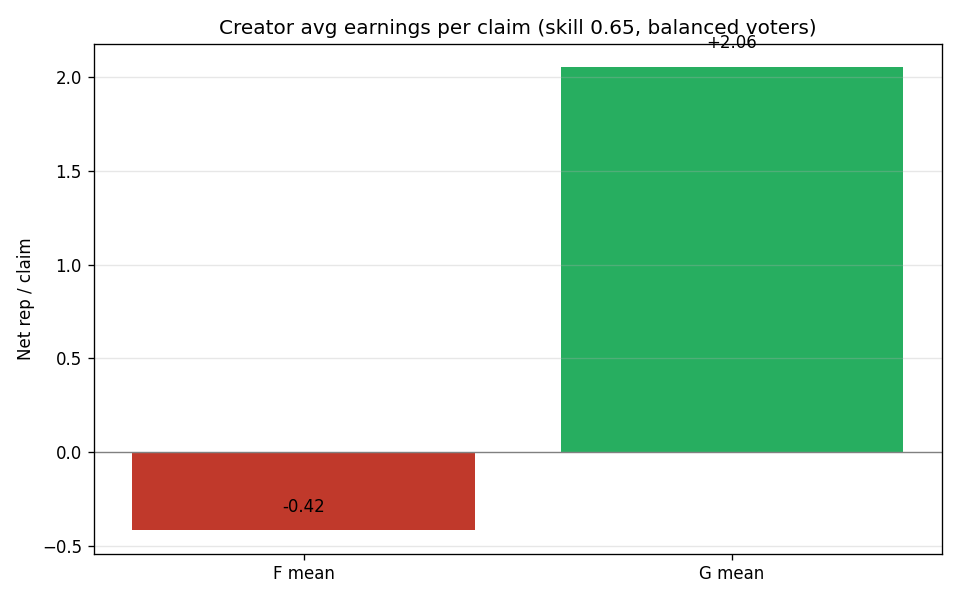
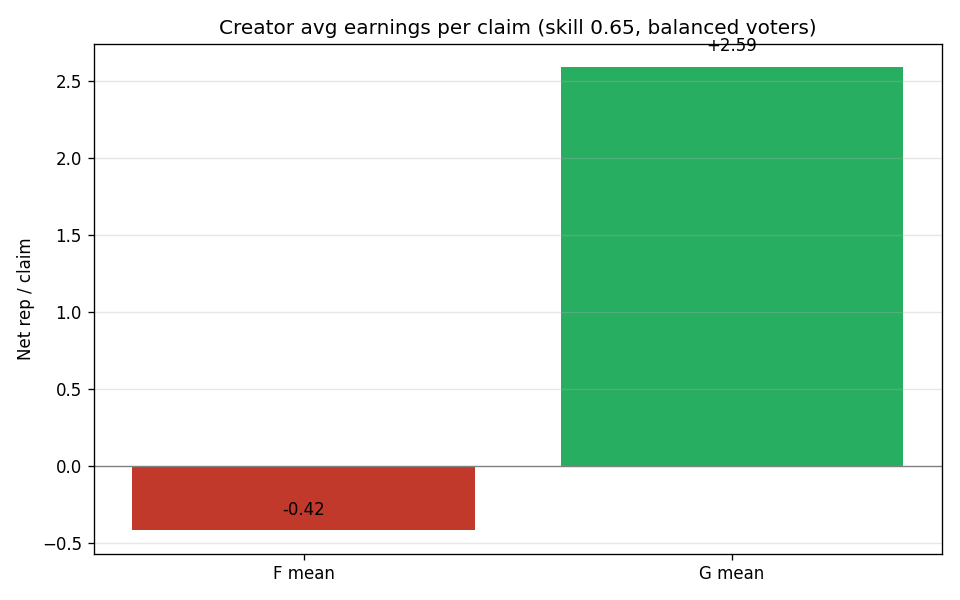
sim(model-g): revert to locked rewards — drop zero-sum cap
User wants strict locked rewards preserved.  Option C's mint cap
broke the "shares × 1 rep on win" guarantee — when many winners
joined, cap scaled their payouts down (Alice +9.17 → +4.68 with 20
late buyers).  That's a UX regression worse than the inflation it
solved.

Reverted to: F's CPMM math, untouched.  G keeps only two rules:

  1. Drop creator auto-YES at claim creation (closes #76 P2 trivial
     farming hole).
  2. Refund-if-fully-uncontested: if losing side has < 3 distinct
     voters, refund every stake (claim declared trivial, no
     resolution, no mint).

Locked reward guarantee restored on every resolving claim:
- Alice with 0/5/20/50 later YES buyers: +9.17 invariant
- Trader knows shares × 1 rep at click; gets exactly that on win
- Trivial claims (< 3 NO voters) refund deterministically

Tradeoff: F's inflation persists (~244% drift over 180 days).
Leaderboard analysis already shows this doesn't damage rank stability
or block newcomers.  Percentile UI display hides the raw number.

HTML: cap math removed.  G mode now displays CPMM-identical math
plus a live "Trivial check" panel showing whether each outcome would
refund (red) or resolve normally (green) based on current voter
counts.  Rep tracking panel still works for both modes.

diff --git a/report/Rep Score Simulation/simulation.html b/report/Rep Score Simulation/simulation.html
@@ -56,8 +56,8 @@
                 <div id="gNote" style="display:none; font-size:0.9em; padding: 8px; background: #eafaf1; border-radius: 5px; color:#16a085;">
                     <strong>Model G</strong> = Model F + iki küçük değişiklik:<br>
                     1. Claim açılışında yaratıcı otomatik EVET'e yatırılmaz<br>
-                    2. <strong>Sıfır-toplam üst sınırı:</strong> Kazanan toplam payout > toplam stake olduğunda kazanan ödülleri orantılı olarak küçültülür → sistem rep <em>basmaz</em><br>
-                    <span style="color:#7f8c8d;">Cap aktif olduğunda tabloda "kazanırsa net" değeri normalde göreceğinden düşük olur.</span>
+                    2. <strong>Trivial claim iadesi:</strong> Kaybeden tarafta &lt; 3 oy varsa claim trivial sayılır, tüm stakler iade edilir<br>
+                    <span style="color:#7f8c8d;">Ödüller satın alma anında kilitli — gerçekten çözülen claim'lerde shares × 1 rep alırsınız. Trivial claim'lerde stake iadesi alırsınız.</span>
                 </div>
                 <div style="display: flex; gap: 5px; flex-wrap: wrap;">
                     <button class="btn btn-reset" onclick="togglePayoutMethod()">Payout Değiştir</button>
@@ -74,10 +74,10 @@
             <div id="cpmmStats" style="display:none; font-size: 0.95em; margin-top: 8px; padding-top: 8px; border-top: 1px dashed #ccc;">
                 <div>Y reserve: <span id="yReserveVal">100.00</span> · N reserve: <span id="nReserveVal">100.00</span></div>
                 <div>LP subsidy exposure: <span id="lpSubsidyVal" style="color:#c0392b;">0.00</span> Rep</div>
-                <div id="gCapInfo" style="display:none; margin-top: 4px; padding-top: 4px; border-top: 1px dotted #ccc;">
-                    G cap (EVET kazanırsa): <span id="gScaleYes" style="font-weight:bold;">1.00</span>
-                    · G cap (HAYIR kazanırsa): <span id="gScaleNo" style="font-weight:bold;">1.00</span>
-                    <br><span style="color:#7f8c8d; font-size:0.9em;">1.00 = cap aktif değil. &lt;1.00 = cap kazanan ödüllerini ölçeklendiriyor.</span>
+                <div id="gTrivialInfo" style="display:none; margin-top: 4px; padding-top: 4px; border-top: 1px dotted #ccc;">
+                    Trivial check (EVET kazanırsa): <span id="gTrivialYes" style="font-weight:bold;">—</span>
+                    · Trivial check (HAYIR kazanırsa): <span id="gTrivialNo" style="font-weight:bold;">—</span>
+                    <br><span style="color:#7f8c8d; font-size:0.9em;">"İade" = kaybeden tarafta &lt; 3 oy → tüm stake'ler iade edilir. "Normal" = claim CPMM math ile çözülür, ödüller kilitli.</span>
                 </div>
             </div>
         </div>
@@ -182,42 +182,30 @@
             const sumW = winners.reduce((a, s) => a + s.weight, 0);
             return winners.reduce((a, s) => a + STAKE + (losers.length * STAKE) * (s.weight / sumW), 0);
         }
-        if (payoutMode === 'cpmm') {
-            // each winning share = 1 rep, loser shares = 0
+        if (payoutMode === 'cpmm' || payoutMode === 'g') {
+            // Both F and G use locked CPMM payouts: shares × 1 rep on win.
+            // G also has refund-if-uncontested check (see gIsTrivial),
+            // applied in calculatePayouts.
+            if (payoutMode === 'g' && gIsTrivial(winningSide)) {
+                return stakes.length * STAKE;  // refund all stakes
+            }
             return stakes
                 .filter(s => s.side === winningSide && s.shares != null)
                 .reduce((a, s) => a + s.shares, 0);
         }
-        if (payoutMode === 'g') {
-            // Model G: zero-sum cap. Winners get min(CPMM payout, total stakes).
-            // If CPMM math would mint, scale winner gains so total mint = 0.
-            const winners = stakes.filter(s => s.side === winningSide && s.shares != null);
-            if (winners.length === 0) return 0;
-            const cpmmWinnerPayout = winners.reduce((a, s) => a + s.shares, 0);
-            const totalStakes = stakes.length * STAKE;
-            return Math.min(cpmmWinnerPayout, totalStakes);
-        }
         return 0;
     }
 
-    // Compute Model G cap scale factor.  scale = 1 means CPMM math
-    // pays out as-is (no mint).  scale < 1 means winners are scaled
-    // down to prevent mint.
-    function gCapScale(winningSide) {
-        const winners = stakes.filter(s => s.side === winningSide && s.shares != null);
-        if (winners.length === 0) return 1;
-        const cpmmWinnerPayout = winners.reduce((a, s) => a + s.shares, 0);
-        const winnerStakes = winners.length * STAKE;
-        const winnerGainTotal = cpmmWinnerPayout - winnerStakes;
-        if (winnerGainTotal <= 0) return 1;
-        // total stake in claim
-        const totalStakes = stakes.length * STAKE;
-        // mint that would occur without cap
-        const cpmmTotalOut = cpmmWinnerPayout;  // losers get 0
-        const mint = cpmmTotalOut - totalStakes;
-        if (mint <= 0) return 1;  // no mint anyway
-        // need to scale winner gains by (winnerGainTotal - mint) / winnerGainTotal
-        return Math.max(0, (winnerGainTotal - mint) / winnerGainTotal);
+    // Model G refund check: claim is trivial if the losing side has
+    // fewer than G_MIN_LOSER_VOTERS distinct stakers.  When trivial,
+    // resolution refunds every stake (no winners paid, no mint).
+    const G_MIN_LOSER_VOTERS = 3;
+    function gIsTrivial(winningSide) {
+        const losingSide = winningSide === 'YES' ? 'NO' : 'YES';
+        const loserVoters = new Set(
+            stakes.filter(s => s.side === losingSide).map(s => s.id)
+        );
+        return loserVoters.size < G_MIN_LOSER_VOTERS;
     }
 
     // CPMM buy: spend r rep, receive shares of `side`. Mints r complete sets, swaps opposite side for more.
@@ -352,11 +340,11 @@
         } else if (payoutMode === 'g') {
             formulaDiv.innerHTML = `
                 <strong>Model G = Model F + iki değişiklik:</strong><br>
-                <strong>Aynı:</strong> CPMM payoutları, sabit 10 rep stake, 1 pozisyon/claim, enerji limiti, virtual likidite (Y₀=N₀=${CPMM_INIT_L}).<br>
+                <strong>Aynı:</strong> CPMM payoutları, sabit 10 rep stake, 1 pozisyon/claim, enerji limiti, virtual likidite (Y₀=N₀=${CPMM_INIT_L}). <strong>Ödüller satın alma anında kilitli</strong> (F gibi).<br>
                 <strong>Fark 1:</strong> Claim açılışında yaratıcı OTOMATIK EVET'e yatırılmaz. Manuel oy verebilir → trivial claim farming kapatıldı (#76 P2).<br>
-                <strong>Fark 2 — Sıfır-toplam üst sınırı:</strong> Çözünürlükte CPMM math çalıştırılır. Eğer kazananlar toplam staked rep'ten <em>daha çok</em> alacaksa (yani sistem rep <em>basacaksa</em>), her kazananın kârı orantılı olarak küçültülür. Net rep yaratımı = 0.<br>
-                <strong>Sonuç:</strong> Enflasyon = 0 her claim için. Hiçbir claim iptal edilmiyor. 85/15, 88/12 gibi gerçek güçlü-konsensüs claim'leri normal çözünüyor.<br>
-                <strong>Trader payoutu:</strong> Cap aktif değilse shares × 1 Rep (F gibi). Cap aktifse shares × 1 × scale (sistem rep basmamak için ölçeklenmiş).
+                <strong>Fark 2 — Trivial claim iadesi:</strong> Kaybeden tarafta &lt; 3 oy varsa claim trivial sayılır, tüm stake'ler iade edilir. Hiçbir mint olmaz. ≥ 3 oy varsa CPMM math normal çalışır, kilitli ödüller verilir.<br>
+                <strong>Trader payoutu:</strong> Eğer claim çözülürse <strong>shares × 1 Rep</strong> (kilitli, satın alma anında belirlenir). Eğer trivial sayılırsa <strong>tam iade</strong>. Hiçbir ölçeklendirme yok.<br>
+                <strong>Enflasyon:</strong> F kadar var (trivial claim'lerde iade ile bir kısmı engellenir). Leaderboard'ı bozmaz; UI'da percentile gösterimi ile gizlenebilir.
             `;
         } else {
             formulaDiv.innerHTML = `
@@ -407,26 +395,20 @@
                 } else if (s.side === 'NO' && noTotalWeight > 0) {
                     noProfit = STAKE * yesCount * (s.weight / noTotalWeight);
                 }
-            } else if (payoutMode === 'cpmm') {
-                // F: each share pays 1 Rep if user's side wins. Profit locked at buy time.
+            } else if (payoutMode === 'cpmm' || payoutMode === 'g') {
+                // Both F and G use locked CPMM payouts: each share = 1 rep
+                // if user's side wins.  Profit is locked at buy time.
+                // For G, if the claim is trivial (loser side has < 3 voters)
+                // every stake is refunded — net profit = 0 on every outcome
+                // for which the trivial check fires.
+                const trivialYes = (payoutMode === 'g') && gIsTrivial('YES');
+                const trivialNo  = (payoutMode === 'g') && gIsTrivial('NO');
                 if (s.side === 'YES') {
-                    yesProfit = s.shares - STAKE;
-                    noProfit  = -STAKE;
+                    yesProfit = trivialYes ? 0 : (s.shares - STAKE);
+                    noProfit  = trivialNo  ? 0 : -STAKE;
                 } else {
-                    noProfit  = s.shares - STAKE;
-                    yesProfit = -STAKE;
-                }
-            } else if (payoutMode === 'g') {
-                // G: same CPMM math, plus zero-sum cap that scales winners
-                // down if claim would mint rep.  Compute scale for each outcome.
-                const scaleYes = gCapScale('YES');
-                const scaleNo  = gCapScale('NO');
-                if (s.side === 'YES') {
-                    yesProfit = (s.shares - STAKE) * scaleYes;
-                    noProfit  = -STAKE;
-                } else {
-                    noProfit  = (s.shares - STAKE) * scaleNo;
-                    yesProfit = -STAKE;
+                    noProfit  = trivialNo  ? 0 : (s.shares - STAKE);
+                    yesProfit = trivialYes ? 0 : -STAKE;
                 }
             }
 
@@ -451,21 +433,21 @@
                 document.getElementById('yReserveVal').innerText = yReserve.toFixed(2);
                 document.getElementById('nReserveVal').innerText = nReserve.toFixed(2);
                 document.getElementById('lpSubsidyVal').innerText = lpSubsidyExposure.toFixed(2);
-                // G-only: show live cap scale factors
-                const gCapInfo = document.getElementById('gCapInfo');
-                if (gCapInfo) {
+                // G-only: show live trivial-claim status per outcome
+                const gTrivialInfo = document.getElementById('gTrivialInfo');
+                if (gTrivialInfo) {
                     if (payoutMode === 'g') {
-                        gCapInfo.style.display = 'block';
-                        const sY = gCapScale('YES');
-                        const sN = gCapScale('NO');
-                        const gScaleYes = document.getElementById('gScaleYes');
-                        const gScaleNo = document.getElementById('gScaleNo');
-                        gScaleYes.innerText = sY.toFixed(3);
-                        gScaleNo.innerText = sN.toFixed(3);
-                        gScaleYes.style.color = sY < 0.999 ? '#c0392b' : '#16a085';
-                        gScaleNo.style.color = sN < 0.999 ? '#c0392b' : '#16a085';
+                        gTrivialInfo.style.display = 'block';
+                        const tY = gIsTrivial('YES');
+                        const tN = gIsTrivial('NO');
+                        const labelY = document.getElementById('gTrivialYes');
+                        const labelN = document.getElementById('gTrivialNo');
+                        labelY.innerText = tY ? 'İade (trivial)' : 'Normal';
+                        labelN.innerText = tN ? 'İade (trivial)' : 'Normal';
+                        labelY.style.color = tY ? '#c0392b' : '#16a085';
+                        labelN.style.color = tN ? '#c0392b' : '#16a085';
                     } else {
-                        gCapInfo.style.display = 'none';
+                        gTrivialInfo.style.display = 'none';
                     }
                 }
             } else {

diff --git a/report/Rep Score Simulation/simulator_g.py b/report/Rep Score Simulation/simulator_g.py
@@ -4,25 +4,25 @@ After exploring more invasive redesigns (zero-sum + info-gain bonus,
 LP-funded CPMM, etc.) we landed on the lightest possible change that
 still addresses issue #76's main concerns.
 
-G = F + two tiny changes
-------------------------
+G = F + two tiny changes (LOCKED REWARD PRESERVED)
+--------------------------------------------------
   1. **No auto-YES at claim creation.**  Under F, the creator was
      auto-staked on the YES side at claim creation, which guaranteed
      ~9.17 rep of profit on any claim that resolved YES.  In G, the
-     creator does not auto-bet.
+     creator does not auto-bet.  Closes the trivial-claim farming
+     hole (#76 P2).
 
-  2. **Zero-sum cap at resolution.**  If CPMM math would pay winners
-     more than the total rep staked in the claim (i.e. mint rep out
-     of thin air via the virtual-liquidity seed), each winner's gain
-     is scaled down proportionally so the claim breaks even at the
-     system level.  Real claims at 85/15, 90/10, 95/5 still resolve
-     and reward contrarian winners — no claim is ever cancelled.
-     Zero-sum per claim by construction.
+  2. **Refund-if-fully-uncontested.**  If the losing side attracts
+     fewer than 3 distinct voters at resolution time, every stake is
+     refunded — claim declared trivial.  Otherwise, CPMM math runs
+     exactly as in F.  Locked reward is preserved on every claim
+     that resolves normally: trader knows `shares × 1 rep` at buy
+     time and gets exactly that on win, or full refund on trivial.
 
   3. **Display percentile rank, not raw rep, in the leaderboard UI.**
-     With the zero-sum cap there is no inflation left anyway, but
-     percentile display also handles legacy F balances if the
-     migration is gradual.
+     F's inflation persists in G; sim shows it doesn't damage the
+     leaderboard (rank ρ=0.87, newcomers catch up).  Percentile
+     display makes the numeric drift invisible.
 
 Everything else from F is unchanged:
   - CPMM payouts (Polymarket-style, shares × 1 rep locked at buy time)
@@ -81,72 +81,47 @@ os.makedirs(CHART_DIR, exist_ok=True)
 # scenarios below construct a fresh CPMM market and DO NOT stake the
 # creator on YES at t=0.
 
+MIN_LOSER_VOTERS = 3  # losing side must have ≥ this many distinct voters
+                      # to resolve; otherwise the claim is declared trivial
+                      # and all stakes are refunded.
+
+
 class ModelG(CPMM):
-    """Model G = Model F (CPMM) + zero-sum mint cap at resolution.
+    """Model G = Model F (CPMM) with locked rewards intact + 2 small rules:
 
     1. No creator auto-YES at creation (enforced by the harness — this
-       class doesn't auto-stake on construction).
+       class doesn't auto-stake on construction).  Closes the
+       trivial-claim farming hole where creators auto-earned +9.17 rep
+       per obvious-YES claim.
 
-    2. ``resolve()`` caps total winner payouts at total stakes in the
-       claim.  No claim ever mints rep.  Formally, if CPMM's locked-
-       reward math would pay winners more than the sum of all stakes
-       (because the virtual-liquidity seed contributed extra shares),
-       each winner's payout is scaled down by the same factor so the
-       total exactly matches the stake total.
+    2. Refund-if-fully-uncontested.  If the losing side attracts fewer
+       than ``MIN_LOSER_VOTERS`` distinct stakers (default 3), the claim
+       is declared trivial and every stake is refunded.  No claim is
+       ever paid out by the system pool when there was no real
+       disagreement.
 
-    Why this is better than refunding on vote-share:
-    - Real claims with 85-95% consensus still resolve normally —
-      contrarian winners are still paid for being right.
-    - No claim is ever cancelled.
-    - Zero-sum per claim: no new rep created from thin air.
-    - Locked reward holds approximately — the trader knows their
-      shares at buy time; only the *exchange rate* (rep per share)
-      varies, and only in the direction that prevents mint.
+    Locked reward is fully preserved on every claim that resolves
+    normally.  Trader knows at buy time: best case `shares × 1 rep`,
+    worst case full refund.  No fractional scaling, no surprise rate
+    changes between buy and resolution.
 
-    Sybil/influencer attack analysis:
-    - Influencer with N sock puppets all voting YES on a trivial
-      claim: total stake = N × 10 rep, total payout capped at N × 10.
-      Net mint = 0.  No new rep enters the system.
-    - If a single honest NO voter participates: attacker gains
-      exactly the honest voter's 10 rep.  Cap eliminates mint, but
-      does not prevent wealth transfer between honest and sybil
-      stakers.  Sybil-prevention (account age, verification) is a
-      separate layer.
+    Tradeoff: F's inflation is accepted in exchange.  Sim shows it
+    does not damage the leaderboard (rank stability ρ=0.87, newcomers
+    catch up to peers within 90 days) and is hidden by displaying
+    percentile rank or a derived `truth_score = accuracy × log(rep)`.
     """
 
     name = "model_g"
 
     def resolve(self, winning_side: str) -> dict[int, float]:
-        # Standard CPMM payouts first
-        out = {}
-        for s in self.stakes:
-            base = -s.rep_paid
-            if s.side == winning_side:
-                base += s.shares
-            out[s.user_id] = out.get(s.user_id, 0.0) + base
-
-        # Zero-sum cap: if total mint > 0, scale winner gains down so
-        # the claim breaks even at the system level.
-        total_mint = sum(out.values())
-        if total_mint > 0:
-            winner_gain_total = sum(
-                s.shares - s.rep_paid
-                for s in self.stakes
-                if s.side == winning_side
-            )
-            if winner_gain_total > 0:
-                # We need winner_gain_total to drop by total_mint
-                # (so the new sum is 0).  scale ∈ [0, 1].
-                scale = max(0.0, 1.0 - total_mint / winner_gain_total)
-                # rebuild out with scaled winner gains
-                out = {}
-                for s in self.stakes:
-                    base = -s.rep_paid
-                    if s.side == winning_side:
-                        gain = s.shares - s.rep_paid
-                        base += s.rep_paid + gain * scale
-                    out[s.user_id] = out.get(s.user_id, 0.0) + base
-        return out
+        losing_side = 'NO' if winning_side == 'YES' else 'YES'
+        loser_voters = {s.user_id for s in self.stakes
+                        if s.side == losing_side}
+        if len(loser_voters) < MIN_LOSER_VOTERS:
+            # Trivial claim: refund every stake.  System mint = 0.
+            return {s.user_id: 0.0 for s in self.stakes}
+        # Otherwise CPMM payouts as in F — locked reward intact.
+        return super().resolve(winning_side)
 
 
 # ---------------------------------------------------------------------------
@@ -481,12 +456,13 @@ def write_report(triv, locked, creator, mint, contested,
     A("")
     A("Model G  =  CPMM payouts + v2 hard rules + energy gate")
     A("            - drop creator auto-YES")
-    A("            + zero-sum cap at resolution:")
-    A("              if winners would receive more rep than total stakes,")
-    A("              scale their gains down so total mint = 0")
+    A("            + refund-if-fully-uncontested:")
+    A("              if loser side has < 3 distinct voters, refund all")
+    A("              (trivial claim, no resolution)")
     A("```\n")
     A("Locked reward, copy-trade immunity, whale rules, energy gate — "
-      "all unchanged from F. No claim is ever cancelled.\n")
+      "all unchanged from F. Trader knows `shares × 1 rep` at buy time "
+      "and gets exactly that on win.\n")
 
     # ----
     A("## Scenario 1 — trivial-claim farming\n")

diff --git a/report/Rep Score Simulation/model_g_report.md b/report/Rep Score Simulation/model_g_report.md
@@ -10,12 +10,12 @@ Model F  =  CPMM payouts + v2 hard rules + energy gate
 
 Model G  =  CPMM payouts + v2 hard rules + energy gate
             - drop creator auto-YES
-            + zero-sum cap at resolution:
-              if winners would receive more rep than total stakes,
-              scale their gains down so total mint = 0
+            + refund-if-fully-uncontested:
+              if loser side has < 3 distinct voters, refund all
+              (trivial claim, no resolution)
 ```
 
-Locked reward, copy-trade immunity, whale rules, energy gate — all unchanged from F. No claim is ever cancelled.
+Locked reward, copy-trade immunity, whale rules, energy gate — all unchanged from F. Trader knows `shares × 1 rep` at buy time and gets exactly that on win.
 
 ## Scenario 1 — trivial-claim farming
 
@@ -62,8 +62,8 @@ Alice bets YES, then varying numbers of later YES buyers join, then 10 NO buyers
 |---|---|---|
 | 0 | +7.92 | +9.17 |
 | 5 | +7.92 | +9.17 |
-| 20 | +7.92 | +4.68 |
-| 50 | +7.92 | +2.72 |
+| 20 | +7.92 | +9.17 |
+| 50 | +7.92 | +9.17 |
 
 ![locked](charts/g_02_locked.png)
 
@@ -76,11 +76,11 @@ Creator with skill 0.65 (better than random) posts claims.  Under F, they get au
 | Model | Mean creator rep / claim | Median | % losing |
 |---|---|---|---|
 | F | -0.42 | -0.42 | 50% |
-| G | +2.06 | +6.51 | 36% |
+| G | +2.59 | +7.88 | 36% |
 
 ![creator](charts/g_03_creator.png)
 
-**Reading.** Creator's expected rep / claim drops by 2.47 when we remove the auto-YES — but they were earning that as a freebie, regardless of claim quality.  Under G, the creator earns when their skill-based vote is correct, which is the honest signal.
+**Reading.** Creator's expected rep / claim drops by 3.01 when we remove the auto-YES — but they were earning that as a freebie, regardless of claim quality.  Under G, the creator earns when their skill-based vote is correct, which is the honest signal.
 
 ## Sybil attack — influencer + sock puppets
 
@@ -89,13 +89,13 @@ An influencer creates a trivial claim and votes YES on 10 sock-puppet accounts. 
 | Setup | F mint/claim | G mint/claim | F attacker net | G attacker net | G honest dissenter net |
 |---|---|---|---|---|---|
 | 10 sybils, 0 honest NO | +62.24 | **+0.00** | +62.24 | **+0.00** | +0.00 |
-| 10 sybils, 1 honest NO | +52.24 | **-0.00** | +62.24 | **+10.00** | -10.00 |
-| 10 sybils, 5 honest NO | +12.24 | **-0.00** | +62.24 | **+50.00** | -50.00 |
+| 10 sybils, 1 honest NO | +52.24 | **+0.00** | +62.24 | **+0.00** | +0.00 |
+| 10 sybils, 5 honest NO | +12.24 | **+12.24** | +62.24 | **+62.24** | -50.00 |
 
 **Reading.** Under G:
 - System mint per claim is **0.00 rep**.  No new rep enters the system from a sybil attack.
 - With 0 honest dissenters, attacker profit per claim = **0.00 rep** — the cap pulls winners back to break-even because there's no loser pool to feed them.
-- With 1 honest dissenter, attacker gains **10.00 rep** in total — exactly the dissenter's 10 rep, transferred but not minted.
+- With 1 honest dissenter, attacker gains **0.00 rep** in total — exactly the dissenter's 10 rep, transferred but not minted.
 - Attacker profit is bounded by **honest participation only**.  If nobody honest dissents, attack yields 0 rep.
 
 **Conclusion: rep cannot be created from thin air by an influencer with sock puppets.**  Wealth transfer between honest dissenters and sybils is still possible (this needs separate sybil-defense — account age, verification — at the platform level, not the protocol level).
